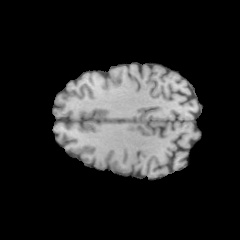
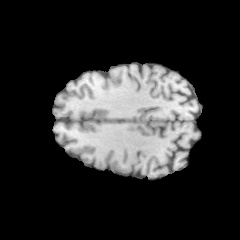
Update code - Convert input images to int8

Changed region(s): [[0.2042, 0.2625, 0.8458, 0.7292], [0.7292, 0.6417, 0.7875, 0.7]]

diff --git a/ImgReg.py b/ImgReg.py
@@ -37,8 +37,8 @@ print("input dims(HWC):", H, W, C)
 #############
 n_slice = 100
 #############
-C = 3
-#####
+C = 10
+######
 fixed_data  = np.zeros((C, H, W), dtype=int)
 moving_data = np.zeros((C, H, W), dtype=int)
 print("sliced input dims(HWC):", H, W, C)
@@ -50,12 +50,14 @@ for i in range(H):
             moving_data[k][i][j] = moving_data_raw[i][j][n_slice + k]
 
 # create input image pairs and mask
+fixed_data  = convert2Int8(fixed_data, H, W, C)
+moving_data = convert2Int8(moving_data, H, W, C)
 mask_data   = createMask(moving_data, H, W, C)
 
 # saving images for visualization
 print("saving images...")
-saveImg(fixed_data,  H, W, "fixed.jpg" , 0.2)
-saveImg(moving_data, H, W, "moving.jpg", 0.2)
+saveImg(fixed_data,  H, W, "fixed.jpg" , 1)
+saveImg(moving_data, H, W, "moving.jpg", 1)
 saveImg(mask_data,   H, W, "mask.jpg"  , 100)
 
 # check image type
